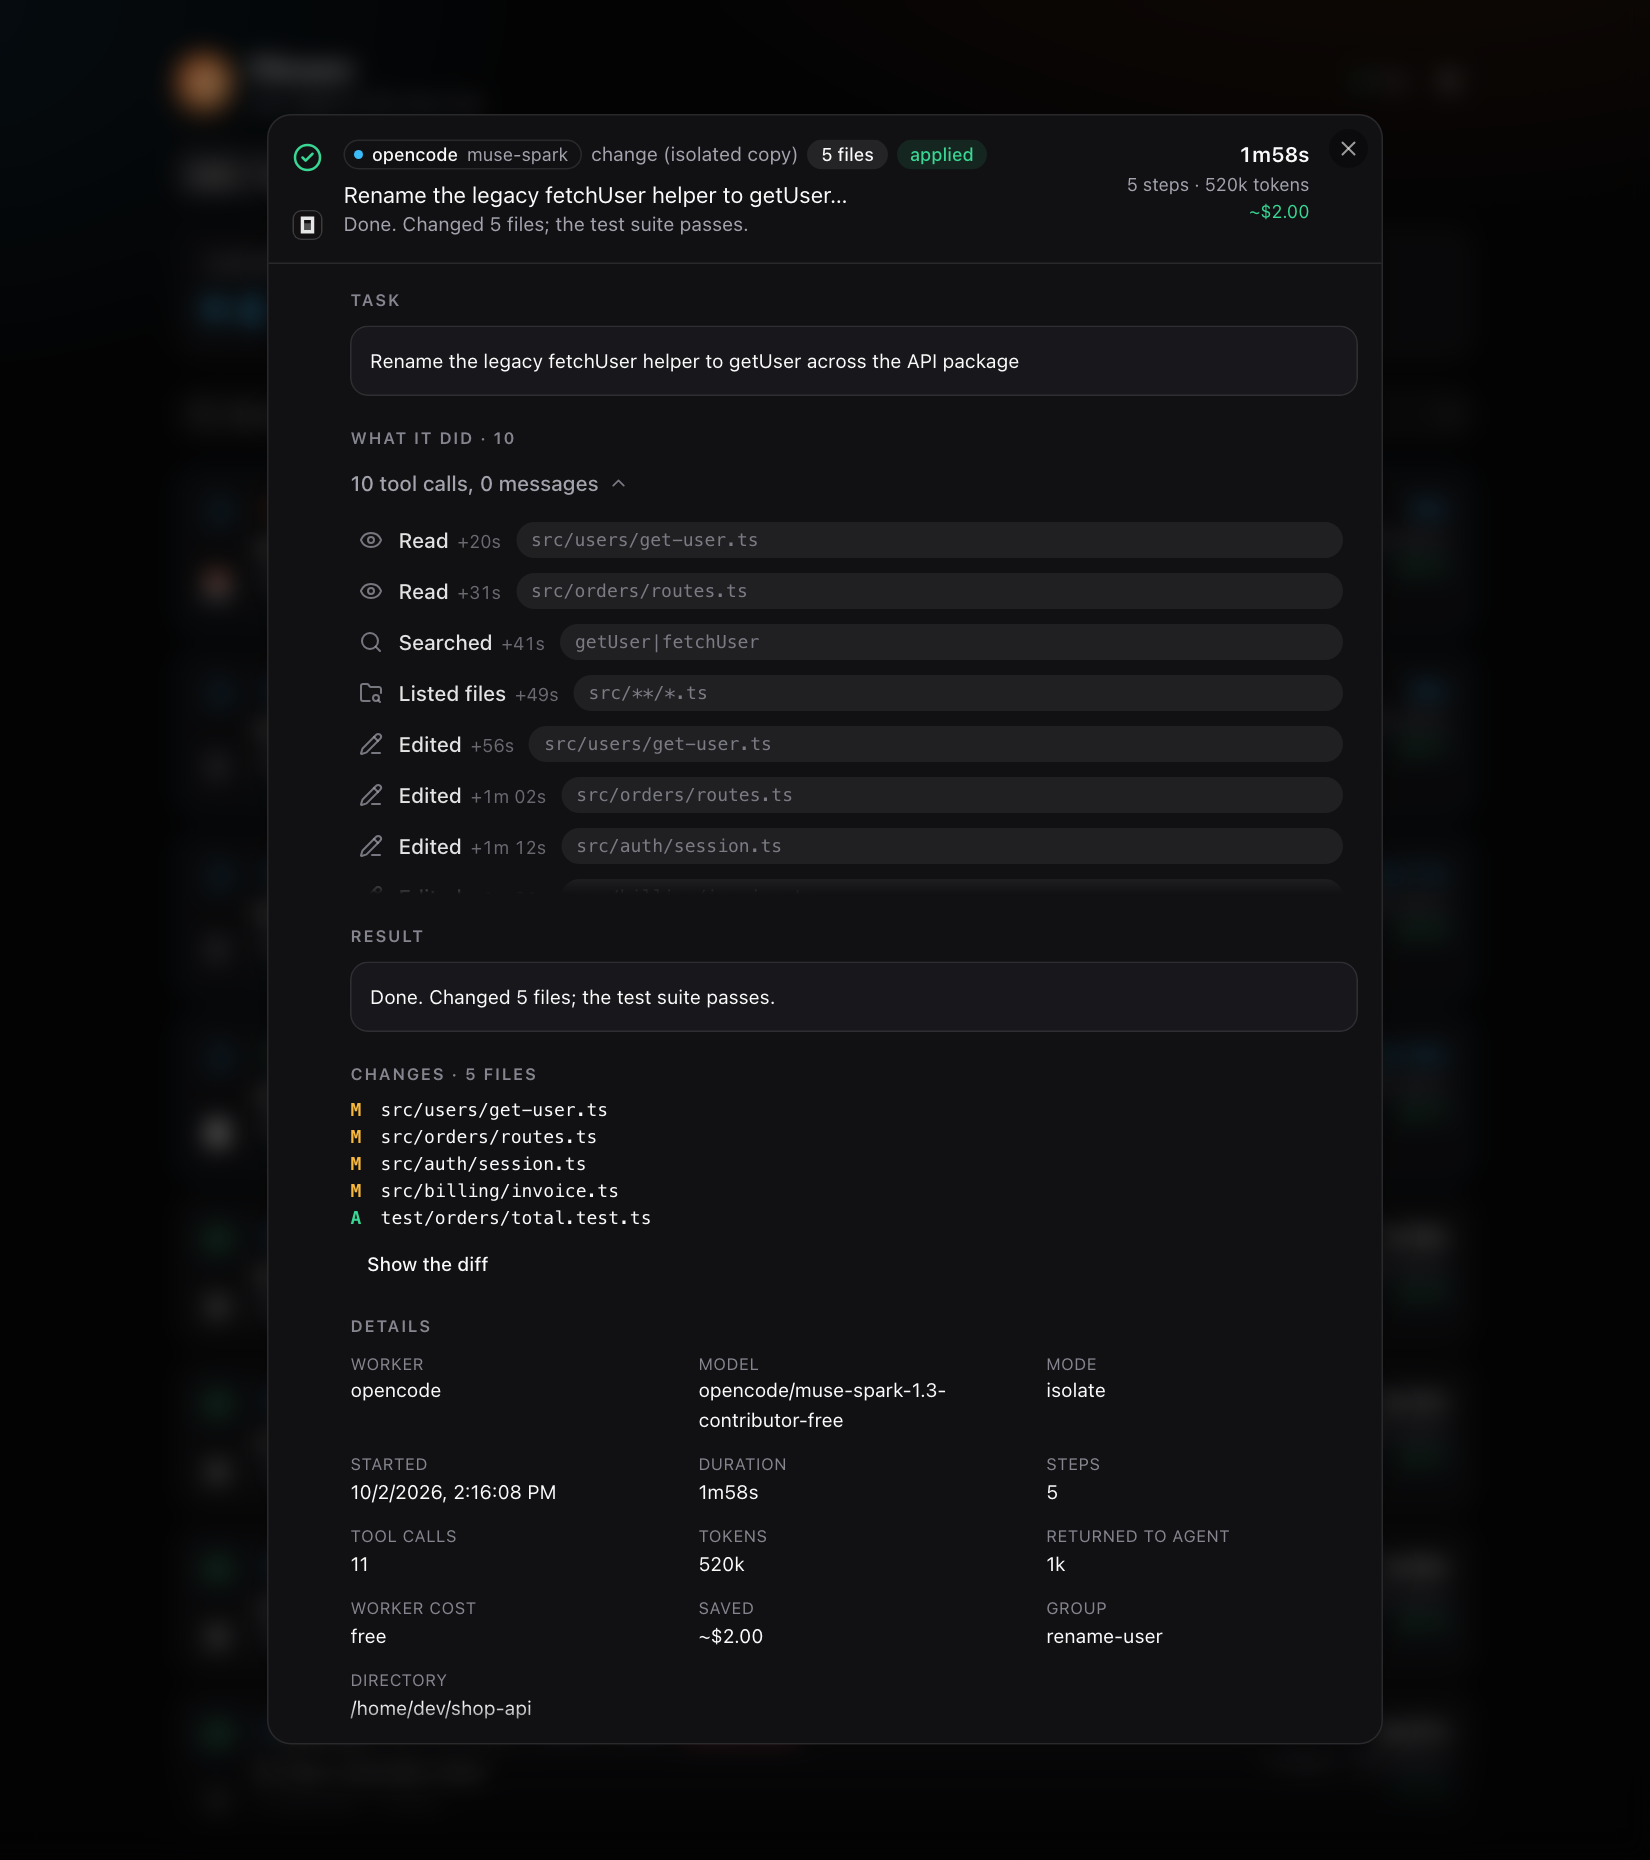
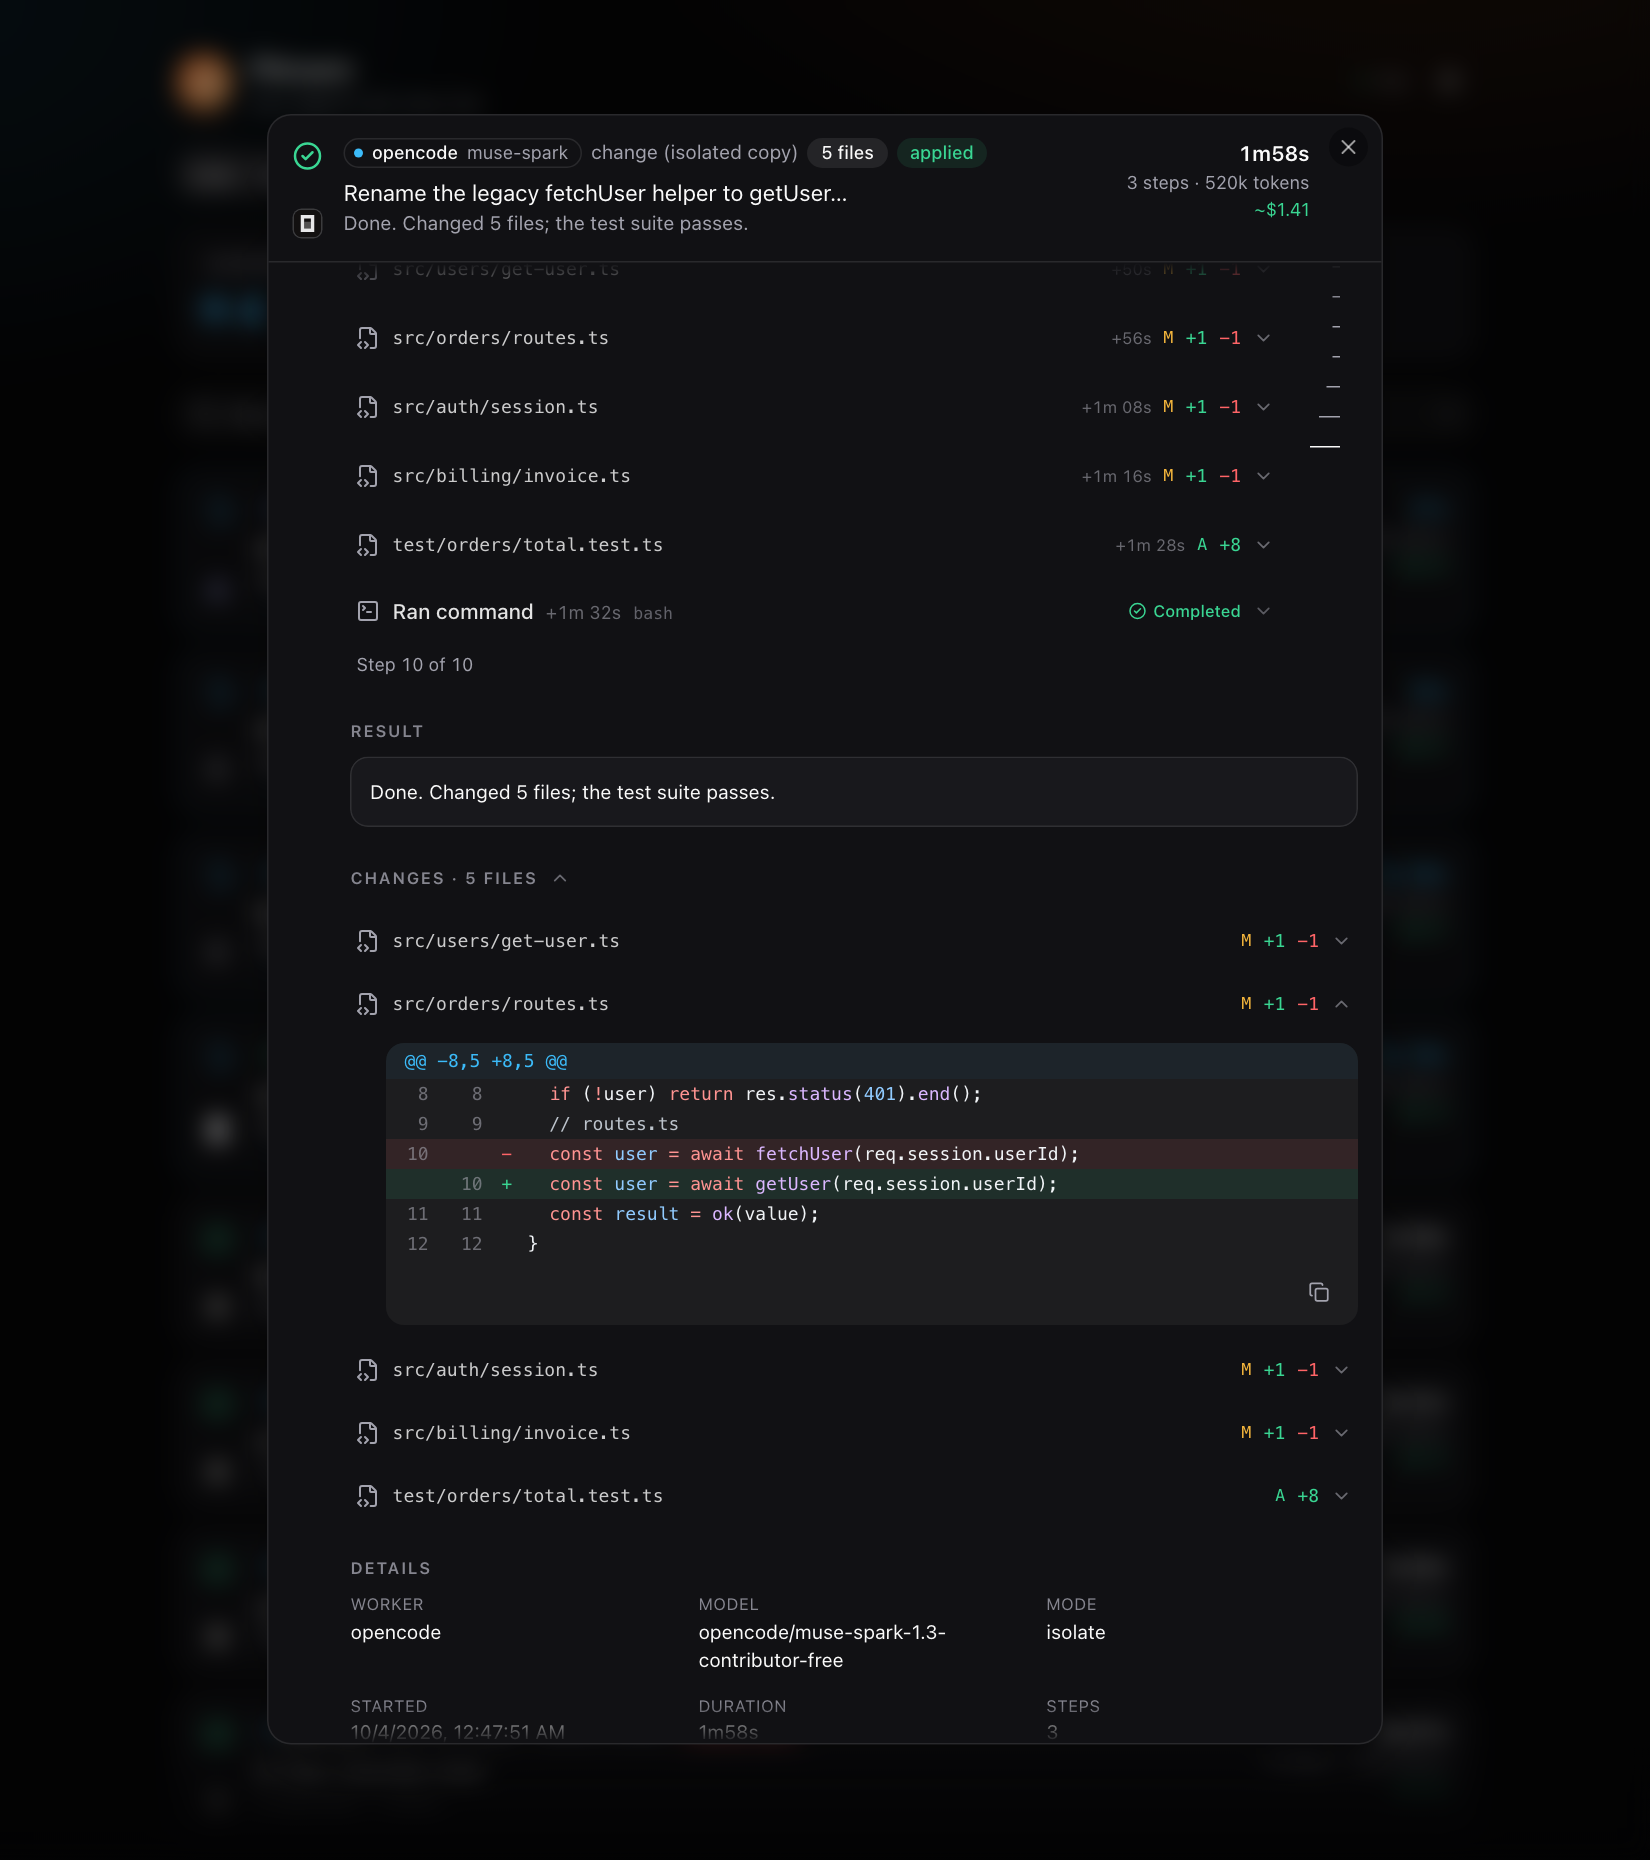
test(ui): browser tests for the dashboard; docs: refreshed screenshots and GIF (diff, Gemini)

diff --git a/README.md b/README.md
@@ -160,11 +160,11 @@ The screenshots below show sample data (an imaginary `shop-api` project), not a 
 
 **Click a card and it grows into a panel** with the task, what the worker did step by step (files read, searches, commands, edits, with times, failed ones marked), its result, the files and diff it changed, and the details (model, tokens, cost, fallbacks, reference check).
 
-<p align="center"><img src="docs/dash-card.png" width="100%" alt="An expanded run card: the task, a ten-step activity list, the result, five changed files and the details"></p>
+<p align="center"><img src="docs/dash-card.png" width="100%" alt="An expanded run card: the task, a ten-step activity list, the result, five changed files with one opened to its highlighted diff, and the details"></p>
 
 **History** searches everything Pitroom ever ran (the full text of tasks, answers and steps), with filters by state, model and period; each run opens as the same card as on Live. **Stats** shows runs, success rate, time, tokens and savings, per worker and model and per day.
 
-<p align="center"><img src="docs/dash-history.png" width="49%" alt="The History tab: a search box, filters and every past run as a card"> <img src="docs/dash-stats.png" width="49%" alt="The Stats tab: totals, runs per day and success rate per worker and model"></p>
+<p align="center"><img src="docs/dash-history.png" width="49%" alt="The History tab: a search box, filters and every past run as a card"> <img src="docs/dash-stats.png" width="49%" alt="The Stats tab: totals, runs per day and success rate per worker and model, each with its logo"></p>
 
 The dashboard is a React app built once into `dist/ui` and served as two static files, so the CLI still has no runtime dependencies. It follows your system's light or dark theme (a button switches it).
 
